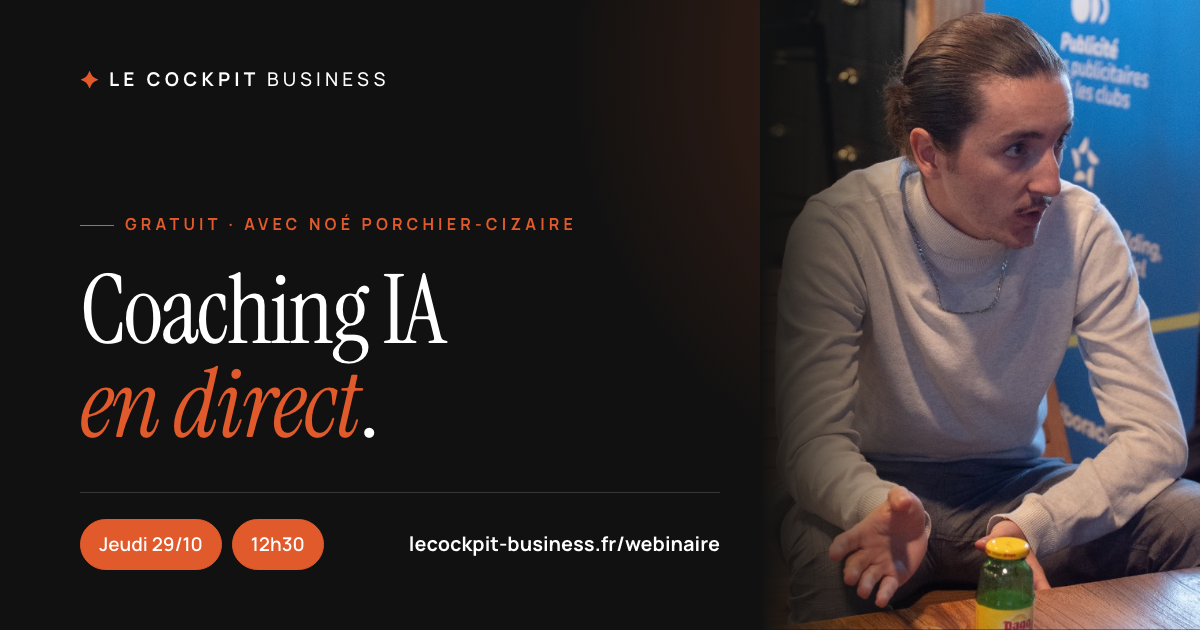
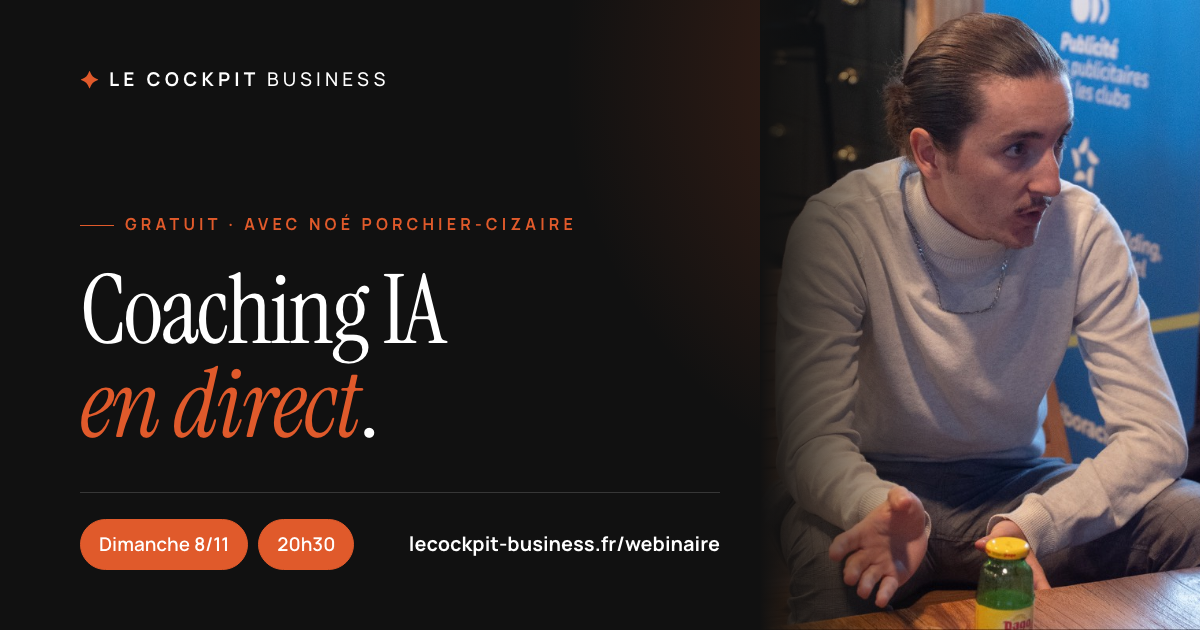
Webinaire : session du dimanche 8 novembre, 20h30 (1h30)
Date, heure et durée de la page, des métadonnées, de l'agenda
(window.LIVE : 2026-11-08 20:30, 90 min, Europe/Paris) et de la carte
de partage mises à jour.

Changed region(s): [[0.0617, 0.8143, 0.3083, 0.9048]]

diff --git a/site/webinaire.html b/site/webinaire.html
@@ -3,8 +3,8 @@
 <head>
 <meta charset="utf-8">
 <meta name="viewport" content="width=device-width, initial-scale=1">
-<title>Coaching IA gratuit en direct, jeudi 29 octobre à 12h30 · Le Cockpit Business</title>
-<meta name="description" content="Posez toutes vos questions sur l'IA : Claude, les agents IA, ce que vous avez essayé et qui ne marche pas. Noé y répond en direct, sans filtre. Jeudi 29 octobre, 12h30, en ligne. Gratuit.">
+<title>Coaching IA gratuit en direct, dimanche 8 novembre à 20h30 · Le Cockpit Business</title>
+<meta name="description" content="Posez toutes vos questions sur l'IA : Claude, les agents IA, ce que vous avez essayé et qui ne marche pas. Noé y répond en direct, sans filtre. Dimanche 8 novembre, 20h30, en ligne. Gratuit.">
 <link rel="canonical" href="https://lecockpit-business.fr/webinaire">
 <link rel="icon" href="assets/favicon/favicon.ico" sizes="32x32">
 <link rel="icon" href="assets/favicon/favicon.svg" type="image/svg+xml">
@@ -16,14 +16,14 @@
 <meta property="og:locale" content="fr_FR">
 <meta property="og:site_name" content="Le Cockpit Business">
 <meta property="og:title" content="Coaching IA en direct : posez toutes vos questions, un expert y répond">
-<meta property="og:description" content="Jeudi 29 octobre, 12h30, en ligne et gratuit. Claude, les agents IA, ce qui ne marche pas : Noé répond à tout, sans filtre.">
+<meta property="og:description" content="Dimanche 8 novembre, 20h30, en ligne et gratuit. Claude, les agents IA, ce qui ne marche pas : Noé répond à tout, sans filtre.">
 <meta property="og:url" content="https://lecockpit-business.fr/webinaire">
 <meta name="twitter:card" content="summary_large_image">
-<meta property="og:image" content="https://lecockpit-business.fr/assets/og/webinaire.png?v=2910">
+<meta property="og:image" content="https://lecockpit-business.fr/assets/og/webinaire.png?v=0811">
 <meta property="og:image:width" content="1200">
 <meta property="og:image:height" content="630">
-<meta property="og:image:alt" content="Coaching IA en direct, jeudi 29 octobre à 12h30, avec Noé Porchier-Cizaire.">
-<meta name="twitter:image" content="https://lecockpit-business.fr/assets/og/webinaire.png?v=2910">
+<meta property="og:image:alt" content="Coaching IA en direct, dimanche 8 novembre à 20h30, avec Noé Porchier-Cizaire.">
+<meta name="twitter:image" content="https://lecockpit-business.fr/assets/og/webinaire.png?v=0811">
 
 <link rel="preconnect" href="https://fonts.googleapis.com">
 <link rel="preconnect" href="https://fonts.gstatic.com" crossorigin>
@@ -46,8 +46,8 @@
      tant qu'il est vide, l'agenda indique qu'il arrive par email. */
   window.LIVE = {
     titre: 'Coaching IA en direct avec Noé · Le Cockpit Business',
-    debut: '2026-10-29T12:30:00+01:00',
-    dureeMinutes: 120,
+    debut: '2026-11-08T20:30:00+01:00',
+    dureeMinutes: 90,
     meet: ''
   };
 </script>
@@ -77,7 +77,7 @@ src="https://www.facebook.com/tr?id=2085006695554307&ev=PageView&noscript=1"
      bouton de réservation d'appel, pas de bulle WhatsApp avant l'inscription
      — chaque sortie est une inscription perdue.
 
-     SESSION EN COURS : coaching IA en direct du jeudi 29 octobre, 12h30,
+     SESSION EN COURS : coaching IA en direct du dimanche 8 novembre, 20h30,
      annoncé à la base mail d'Antoine Paris (FocusLink). Page au VOUVOIEMENT,
      comme les mails d'Antoine — contrairement au reste du site. Version
      précédente (« 7 agents IA », 27 septembre) : archives/ à la racine.
@@ -109,9 +109,9 @@ src="https://www.facebook.com/tr?id=2085006695554307&ev=PageView&noscript=1"
 
       <!-- La session. À mettre à jour à chaque live (et window.LIVE dans le <head>). -->
       <ul class="optin__meta" aria-label="La session">
-        <li><b>Jeudi 29 octobre</b></li>
-        <li><b>12h30</b></li>
-        <li>2 heures</li>
+        <li><b>Dimanche 8 novembre</b></li>
+        <li><b>20h30</b></li>
+        <li>1h30</li>
         <li>En ligne</li>
       </ul>
 
@@ -195,12 +195,12 @@ src="https://www.facebook.com/tr?id=2085006695554307&ev=PageView&noscript=1"
            page est ouverte avec ?inscrit=1. -->
       <div class="optin__merci card" data-optin-merci="page" tabindex="-1" hidden>
         <p class="optin__merci-mark" aria-hidden="true">✦</p>
-        <p class="optin__form-title">C'est noté, à jeudi 12h30.</p>
+        <p class="optin__form-title">C'est noté, à dimanche 20h30.</p>
         <p class="optin__merci-text">Votre place est réservée. La confirmation arrive par email&nbsp;— pensez à regarder dans les promotions si vous ne la voyez pas.</p>
         <p class="optin__merci-text" data-merci-sans-question hidden>Pas encore envoyé votre question&nbsp;? Répondez simplement au mail de confirmation.</p>
         <div class="optin__merci-actions">
           <a class="btn btn--primary" href="#" target="_blank" rel="noopener noreferrer" data-agenda="google">Ajouter à mon agenda</a>
-          <a class="optin__merci-ics" href="#" download="coaching-ia-29-octobre.ics" data-agenda="ics">ou télécharger le fichier .ics (Apple, Outlook)</a>
+          <a class="optin__merci-ics" href="#" download="coaching-ia-8-novembre.ics" data-agenda="ics">ou télécharger le fichier .ics (Apple, Outlook)</a>
           <a class="btn btn--primary" href="https://chat.whatsapp.com/LZnoVTxZ6L6Dxyl7SH1f3x" target="_blank" rel="noopener noreferrer">Rejoindre le groupe WhatsApp</a>
         </div>
       </div>
@@ -585,7 +585,7 @@ src="https://www.facebook.com/tr?id=2085006695554307&ev=PageView&noscript=1"
      ====================================================================== -->
 <section class="section final optin__rappel">
   <div class="shell livefinal reveal">
-    <h2 class="h2">Deux heures pour repartir avec <span class="italique">vos réponses</span>.</h2>
+    <h2 class="h2">Une heure trente pour repartir avec <span class="italique">vos réponses</span>.</h2>
     <a class="btn btn--primary" href="#inscription">
       <span>Je réserve ma place</span>
       <svg width="16" height="16" viewBox="0 0 24 24" fill="none" stroke="currentColor" stroke-width="2.4" stroke-linecap="round" stroke-linejoin="round" aria-hidden="true"><path d="M5 12h14"/><path d="m13 6 6 6-6 6"/></svg>
@@ -677,12 +677,12 @@ src="https://www.facebook.com/tr?id=2085006695554307&ev=PageView&noscript=1"
 
   <div class="optin__merci card" data-optin-merci="pop" tabindex="-1" hidden>
       <p class="optin__merci-mark" aria-hidden="true">✦</p>
-      <p class="optin__form-title">C'est noté, à jeudi 12h30.</p>
+      <p class="optin__form-title">C'est noté, à dimanche 20h30.</p>
       <p class="optin__merci-text">Votre place est réservée. La confirmation arrive par email&nbsp;— pensez à regarder dans les promotions si vous ne la voyez pas.</p>
       <p class="optin__merci-text" data-merci-sans-question hidden>Pas encore envoyé votre question&nbsp;? Répondez simplement au mail de confirmation.</p>
       <div class="optin__merci-actions">
         <a class="btn btn--primary" href="#" target="_blank" rel="noopener noreferrer" data-agenda="google">Ajouter à mon agenda</a>
-        <a class="optin__merci-ics" href="#" download="coaching-ia-29-octobre.ics" data-agenda="ics">ou télécharger le fichier .ics (Apple, Outlook)</a>
+        <a class="optin__merci-ics" href="#" download="coaching-ia-8-novembre.ics" data-agenda="ics">ou télécharger le fichier .ics (Apple, Outlook)</a>
         <a class="btn btn--primary" href="https://chat.whatsapp.com/LZnoVTxZ6L6Dxyl7SH1f3x" target="_blank" rel="noopener noreferrer">Rejoindre le groupe WhatsApp</a>
       </div>
     </div>

diff --git a/og/webinaire.html b/og/webinaire.html
@@ -40,7 +40,7 @@
     <h1 class="carte__titre" style="font-size:96px">Coaching IA<br><span class="italique">en direct</span>.</h1>
   </div>
   <div class="carte__pied">
-    <div class="pastilles"><span>Jeudi 29/10</span><span>12h30</span></div>
+    <div class="pastilles"><span>Dimanche 8/11</span><span>20h30</span></div>
     <b>lecockpit-business.fr/webinaire</b>
   </div>
 </div>
